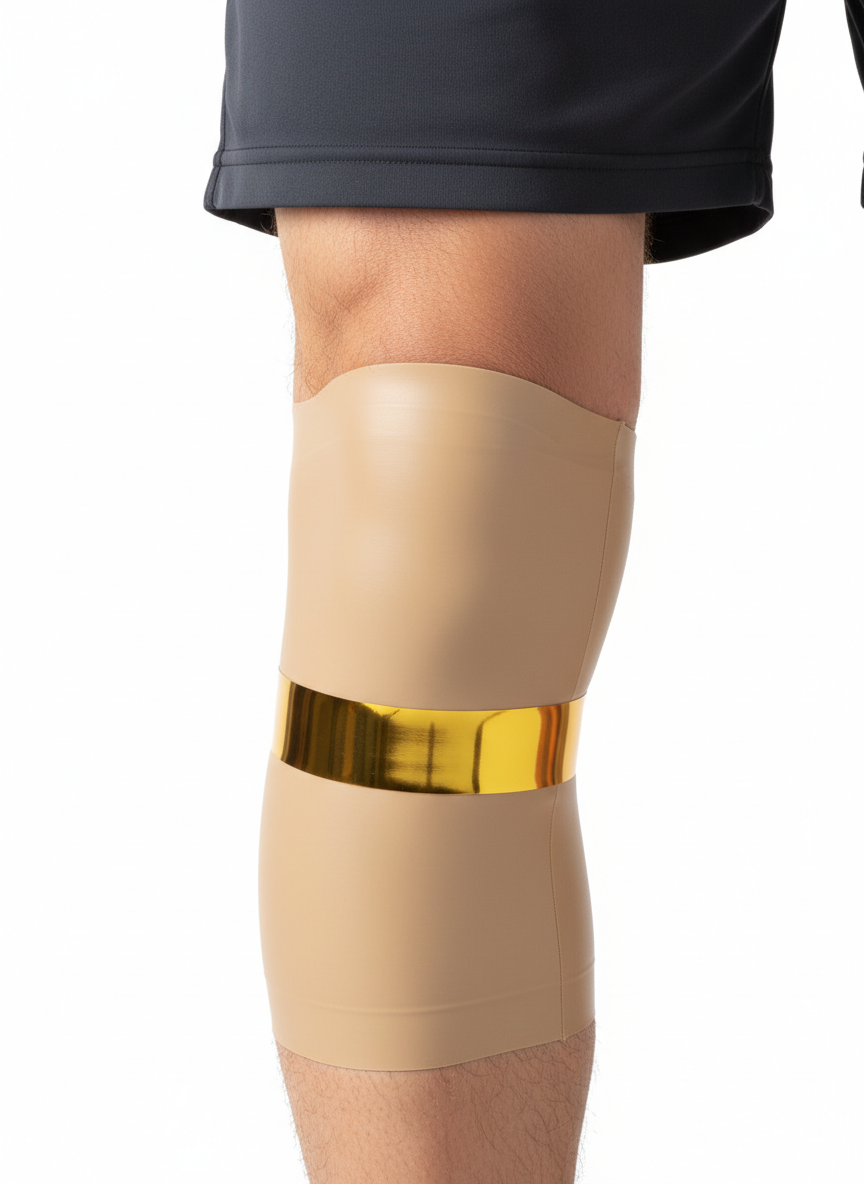
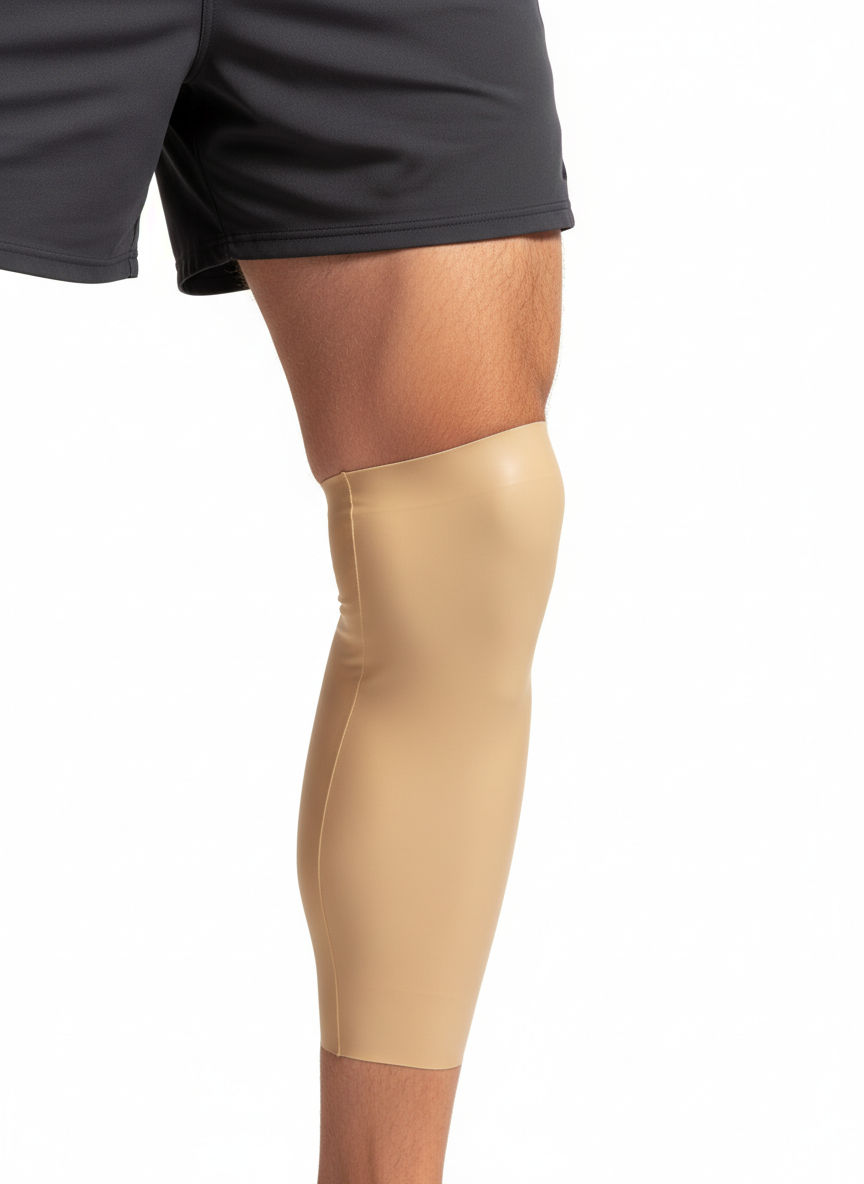
Redesign MeasurementHero with CSS-overlay bands and callout labels
Clean base photos with gold measurement bands positioned via CSS
instead of baked into the AI images. Side-by-side layout: steps
left, annotated diagram right. Callout labels with connector lines
point to exact measurement positions.

diff --git a/src/components/SizingGuide.jsx b/src/components/SizingGuide.jsx
@@ -115,24 +115,6 @@ function RecommendationResult({ recommendation }) {
   );
 }
 
-/* ── Measurement Callout Label ─────────────────────────────────── */
-
-function CalloutLabel({ label, distance, position }) {
-  // position: percentage from top of image where the gold band sits
-  return (
-    <div
-      className="absolute right-0 flex items-center gap-2 translate-x-[calc(100%+8px)]"
-      style={{ top: `${position}%`, transform: `translateY(-50%) translateX(calc(100% + 8px))` }}
-    >
-      <div className="w-6 h-px bg-brand-gold" />
-      <div className="whitespace-nowrap">
-        <p className="text-xs font-bold uppercase tracking-widest text-brand-gold leading-none">{label}</p>
-        <p className="text-xs text-gray-400 mt-0.5">{distance}</p>
-      </div>
-    </div>
-  );
-}
-
 /* ── Measurement Hero (Integrated Diagram) ────────────────────── */
 
 function MeasurementHero({ chartData }) {
@@ -156,14 +138,15 @@ function MeasurementHero({ chartData }) {
     },
   ];
 
-  // Callout positions (% from top of image) for each measurement type
+  // Band + callout positions (% from top of image container)
+  // These are tuned to where the liner sits in the generated photos
   const callouts = isDual
     ? [
-        { label: 'Proximal', distance: '30 cm from end', position: 35 },
-        { label: 'Distal', distance: '4 cm from end', position: 70 },
+        { label: 'TOP', sublabel: 'Proximal \u2014 30 cm', desc: 'Measure circumference 30 cm up from the end of your residual limb.', bandTop: 28, bandWidth: 58 },
+        { label: 'BOTTOM', sublabel: 'Distal \u2014 4 cm', desc: 'Measure circumference 4 cm (1.5 in) up from the end of your residual limb.', bandTop: 78, bandWidth: 38 },
       ]
     : [
-        { label: 'Circumference', distance: '6 cm from end', position: 55 },
+        { label: 'MEASURE HERE', sublabel: 'Circumference \u2014 6 cm', desc: 'Measure the circumference 6 cm above the distal end.', bandTop: 68, bandWidth: 48 },
       ];
 
   return (
@@ -173,48 +156,47 @@ function MeasurementHero({ chartData }) {
       </h3>
 
       <div className="grid grid-cols-1 lg:grid-cols-2 gap-8 lg:gap-12 items-start">
-        {/* Figure with callout labels — shows first on mobile */}
+        {/* Annotated diagram — shows first on mobile */}
         <div className="order-1 lg:order-2 flex justify-center">
-          <div className="relative">
+          <div className="relative bg-brand-offwhite rounded-lg p-4 md:p-6 w-full max-w-sm">
             {chartData.measurementImage && (
-              <div className="bg-brand-offwhite rounded-lg p-4 md:p-6">
+              <div className="relative">
                 <img
                   src={chartData.measurementImage}
                   alt={`${chartData.title} \u2014 where to measure`}
-                  className="w-full max-w-[280px] h-auto mx-auto"
+                  className="w-full h-auto"
                   loading="lazy"
                 />
+
+                {/* Gold band overlays + callout labels on the image */}
+                {callouts.map((callout, i) => (
+                  <div key={i} className="absolute left-0 right-0" style={{ top: `${callout.bandTop}%` }}>
+                    {/* Gold measurement band */}
+                    <div
+                      className="mx-auto h-[6px] rounded-full opacity-90"
+                      style={{
+                        width: `${callout.bandWidth}%`,
+                        background: 'linear-gradient(90deg, transparent, #C6A87C 15%, #C6A87C 85%, transparent)',
+                      }}
+                    />
+
+                    {/* Callout line + label extending right */}
+                    <div className="absolute right-2 md:right-4 top-1/2 -translate-y-1/2 flex items-center gap-1.5">
+                      <div className="w-4 md:w-8 h-px bg-brand-gold" />
+                      <div className="bg-white/90 backdrop-blur-sm rounded px-2 py-1 shadow-sm">
+                        <p className="text-[10px] md:text-xs font-bold text-brand-gold leading-none whitespace-nowrap">{callout.label}</p>
+                        <p className="text-[9px] md:text-[10px] text-gray-500 leading-tight whitespace-nowrap">{callout.sublabel}</p>
+                      </div>
+                    </div>
+                  </div>
+                ))}
               </div>
             )}
-            {/* Callout labels — desktop only, positioned alongside image */}
-            <div className="hidden lg:block">
-              {callouts.map((callout) => (
-                <CalloutLabel
-                  key={callout.label}
-                  label={callout.label}
-                  distance={callout.distance}
-                  position={callout.position}
-                />
-              ))}
-            </div>
           </div>
         </div>
 
-        {/* Mobile callout labels */}
-        <div className="order-2 lg:hidden flex justify-center gap-6 -mt-4 mb-2">
-          {callouts.map((callout) => (
-            <div key={callout.label} className="flex items-center gap-2">
-              <div className="w-3 h-3 rounded-full bg-brand-gold flex-shrink-0" />
-              <div>
-                <p className="text-xs font-bold uppercase tracking-widest text-brand-gold leading-none">{callout.label}</p>
-                <p className="text-xs text-gray-400">{callout.distance}</p>
-              </div>
-            </div>
-          ))}
-        </div>
-
         {/* Steps — shows second on mobile, left column on desktop */}
-        <div className="order-3 lg:order-1 space-y-5 lg:pt-4">
+        <div className="order-2 lg:order-1 space-y-5 lg:pt-4">
           {steps.map((step, i) => (
             <div key={step.number} className="flex items-start gap-4 relative">
               {/* Vertical connecting line */}
